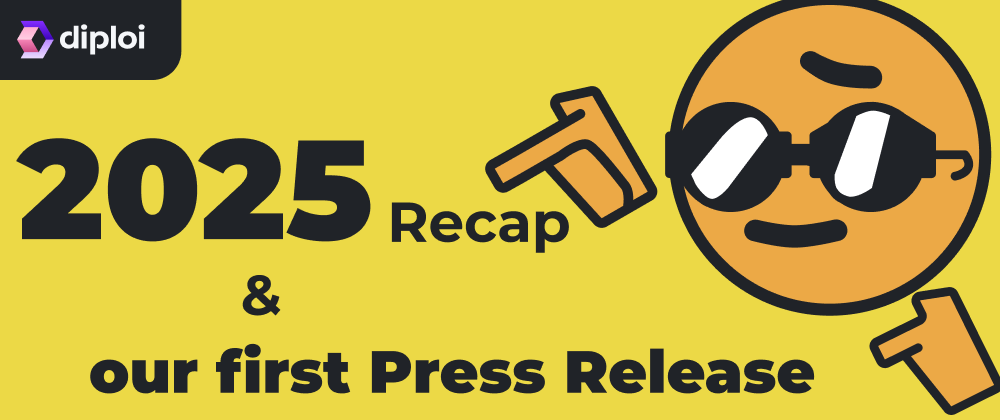
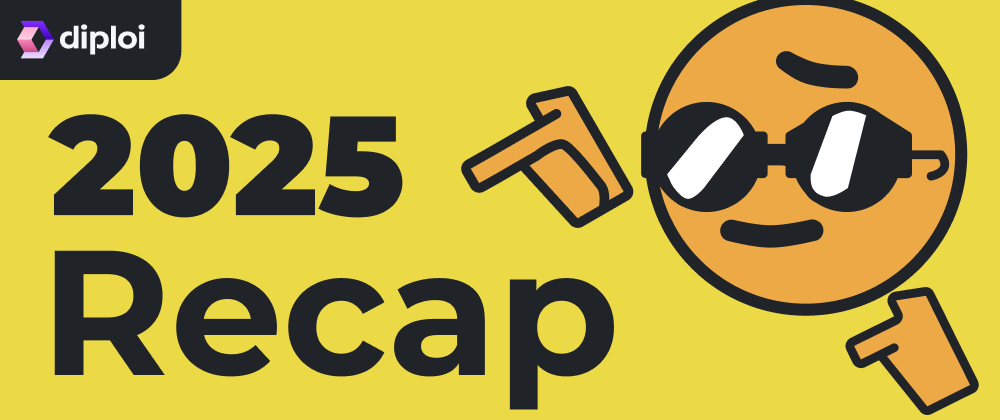
Split recap and PR into two posts

diff --git a/src/content/blog/recap_2025/recap_2025.md b/src/content/blog/recap_2025/recap_2025.md
@@ -2,7 +2,7 @@
 title: 'Closing 2025 loudly!'
 description: 'Our first press release and looking back to what happened in 2025.'
 author: 'Javier'
-timestamp: '2025-12-22T17:44:00.000Z'
+timestamp: '2025-12-23T11:00:00.000Z'
 # devtoUrl: ''
 image: './2025_recap_cover.png'
 social_image: './2025_recap_og.png'
@@ -11,7 +11,7 @@ type: 'Recap'
 highlight: true
 ---
 
-Updated <time datetime="2025-12-22T17:44:00.000Z">December 22, 2025</time>
+Updated <time datetime="2025-12-23T11:00:00.000Z">December 23, 2025</time>
 
 ***
 
@@ -47,35 +47,7 @@ So yes, a lot happened, but one thing we didn't have a chance to do was launch a
 
 Until now. 😎
 
-***
-
-## Our first press release!
-
-We partnered with [San Francisco](https://sanfrancisco.fi/), a well-known public relations agency based in Helsinki, to do our first press release. They did a great job, and we already got attention from international publications, talking about Diploi and our mission.
-
-Since this is a blog for all things Diploi, it makes sense to share the press release here as well.
-
-***
-
-### Diploi launches to bridge the development gap between vibe coding and production-ready software
-
-[Link to the original post](https://news.cision.com/san-francisco-oy/r/diploi-launches-to-bridge-the-development-gap-between-vibe-coding-and-production-ready-software,c4285679).
-
-**HELSINKI, Finland (18 December 2025)** Helsinki-based developer platform Diploi today announced the full launch of Diploi.com, a single SaaS platform designed to streamline development, testing, and production for developers, teams, and agencies. By reducing environment setup headaches and DevOps overhead, Diploi empowers teams to build, test, and deploy software reliably and efficiently.
-
-The path from experimenting quickly with vibe coding to working on production-ready apps requires significant effort to follow. While AI app-builders like Lovable make it easy for developers of all skill levels to create concepts, the end product suffers if prompts do not take architectural complexity into account, with small changes often leading to unexpected issues in the underlying code. 
-
-From vibe coding to production, Diploi solves this by providing consistent environments, zero-install remote development, one-click environment setup, and support for any stack, eliminating the need to constantly switch between projects and contexts. 
-
-Early user feedback has been positive, with Artha CTO Kim Sandell appreciating how Diploi enables a more efficient and streamlined development workflow. “The platform’s speed and simplicity are major advantages, and being able to operate without any DevOps overhead has saved us significant time. Making changes through the web editor is remarkably fast, and the automated branch-push deployment to Diploi is far easier than using traditional CI/CD pipelines.”
-
-With Lovable reaching a $6 billion valuation just two years after being founded and the global vibe-coding market projected to hit $325 billion by 2040, adoption of these tools is set to scale, as is the opportunity for tools that bridge the gap between vibe and real-world coding.
-
-“Vibe coding has massively lowered the barrier to entry for building apps for fun. While the result may be shiny, what's behind might be quite awful,” said Marcus Ahlfors, Founder of Diploi. “People will need something else to get these prototypes to production. We built Diploi for people who want one place to make great apps with the tools they love. We eliminate overheads that slow teams while providing consistent environments, one-click onboarding, and full-stack support — so more experienced developers can focus on building real, production-ready apps, using vibe coding or not.”
-
-A recent Diploi developer survey found 68% of respondents reported moderate to high effort in setting up and managing development and production environments, whereas 73% said creating and sharing test environments was similarly burdensome. Surprisingly, only 11.6% were fully using remote development tools, highlighting the need for more zero-install remote environments.
-
-“We actually love vibe coding – it’s one of the amazing range of tools available to devs today, and more are sure to come. As the market continues to develop, we plan to continuously expand integrations, improve AI-assisted workflows, and make Diploi the go-to platform for teams and agencies looking to ship real software reliably,” concludes Ahlfors.
+[Click here to check our press release](/blog/our_first_press_release).
 
 ***
 
@@ -90,7 +62,3 @@ It took a lot of effort to get here, and it almost feels like the year happened 
 As we look forward to 2026, we hope you have enjoyed this journey as much as we have
 
 And from everyone in Diploi, we wish you a happy New Year! 🎆
-
-## References
-
-- [Full post from San Francisco PR agency](https://news.cision.com/san-francisco-oy/r/diploi-launches-to-bridge-the-development-gap-between-vibe-coding-and-production-ready-software,c4285679)

diff --git a/src/content/blog/our_first_press_release/our_first_press_release.md b/src/content/blog/our_first_press_release/our_first_press_release.md
@@ -1,0 +1,58 @@
+---
+title: 'Closing 2025 loudly!'
+description: 'Our first press release and looking back to what happened in 2025.'
+author: 'Javier'
+timestamp: '2025-12-23T10:00:00.000Z'
+# devtoUrl: ''
+image: './our_first_press_release_cover.png'
+social_image: './our_first_press_release_og.png'
+draft: false
+type: 'Press Release'
+highlight: true
+---
+
+Updated <time datetime="2025-12-23T10:00:00.000Z">December 23, 2025</time>
+
+***
+
+## Our first press release!
+
+We recently launched our first press release, and since this is a blog for all things Diploi, it makes sense to share the press release here as well.
+
+***
+
+### Diploi launches to bridge the development gap between vibe coding and production-ready software
+
+[Link to the original post](https://news.cision.com/san-francisco-oy/r/diploi-launches-to-bridge-the-development-gap-between-vibe-coding-and-production-ready-software,c4285679).
+
+**HELSINKI, Finland (18 December 2025)** Helsinki-based developer platform Diploi today announced the full launch of Diploi.com, a single SaaS platform designed to streamline development, testing, and production for developers, teams, and agencies. By reducing environment setup headaches and DevOps overhead, Diploi empowers teams to build, test, and deploy software reliably and efficiently.
+
+The path from experimenting quickly with vibe coding to working on production-ready apps requires significant effort to follow. While AI app-builders like Lovable make it easy for developers of all skill levels to create concepts, the end product suffers if prompts do not take architectural complexity into account, with small changes often leading to unexpected issues in the underlying code. 
+
+From vibe coding to production, Diploi solves this by providing consistent environments, zero-install remote development, one-click environment setup, and support for any stack, eliminating the need to constantly switch between projects and contexts. 
+
+Early user feedback has been positive, with Artha CTO Kim Sandell appreciating how Diploi enables a more efficient and streamlined development workflow. “The platform’s speed and simplicity are major advantages, and being able to operate without any DevOps overhead has saved us significant time. Making changes through the web editor is remarkably fast, and the automated branch-push deployment to Diploi is far easier than using traditional CI/CD pipelines.”
+
+With Lovable reaching a $6 billion valuation just two years after being founded and the global vibe-coding market projected to hit $325 billion by 2040, adoption of these tools is set to scale, as is the opportunity for tools that bridge the gap between vibe and real-world coding.
+
+“Vibe coding has massively lowered the barrier to entry for building apps for fun. While the result may be shiny, what's behind might be quite awful,” said Marcus Ahlfors, Founder of Diploi. “People will need something else to get these prototypes to production. We built Diploi for people who want one place to make great apps with the tools they love. We eliminate overheads that slow teams while providing consistent environments, one-click onboarding, and full-stack support — so more experienced developers can focus on building real, production-ready apps, using vibe coding or not.”
+
+A recent Diploi developer survey found 68% of respondents reported moderate to high effort in setting up and managing development and production environments, whereas 73% said creating and sharing test environments was similarly burdensome. Surprisingly, only 11.6% were fully using remote development tools, highlighting the need for more zero-install remote environments.
+
+“We actually love vibe coding – it’s one of the amazing range of tools available to devs today, and more are sure to come. As the market continues to develop, we plan to continuously expand integrations, improve AI-assisted workflows, and make Diploi the go-to platform for teams and agencies looking to ship real software reliably,” concludes Ahlfors.
+
+***
+
+## Closing thoughts
+
+The publication already got attention from international outlets, talking about Diploi and our mission which made us very happy to see.
+
+If you would like to reach out for comment, send us an email at hello@diploi.com or message us on [Discord](https://discord.com/invite/vvgQxVjC8G).
+
+## References
+
+- [Original press release](https://news.cision.com/san-francisco-oy/r/diploi-launches-to-bridge-the-development-gap-between-vibe-coding-and-production-ready-software,c4285679)
+
+- [Review from Business meets IT](https://businessmeetsit.com/finse-startup-introduceert-diploi-dat-brug-wil-slaan-tussen-vibe-coding-en-productie-klare-software/)
+
+- [Review from Belgiumcloud](https://belgiumcloud.com/2025/12/18/finse-startup-introduceert-diploi-dat-brug-wil-slaan-tussen-vibe-coding-en-productieklare-software/)
